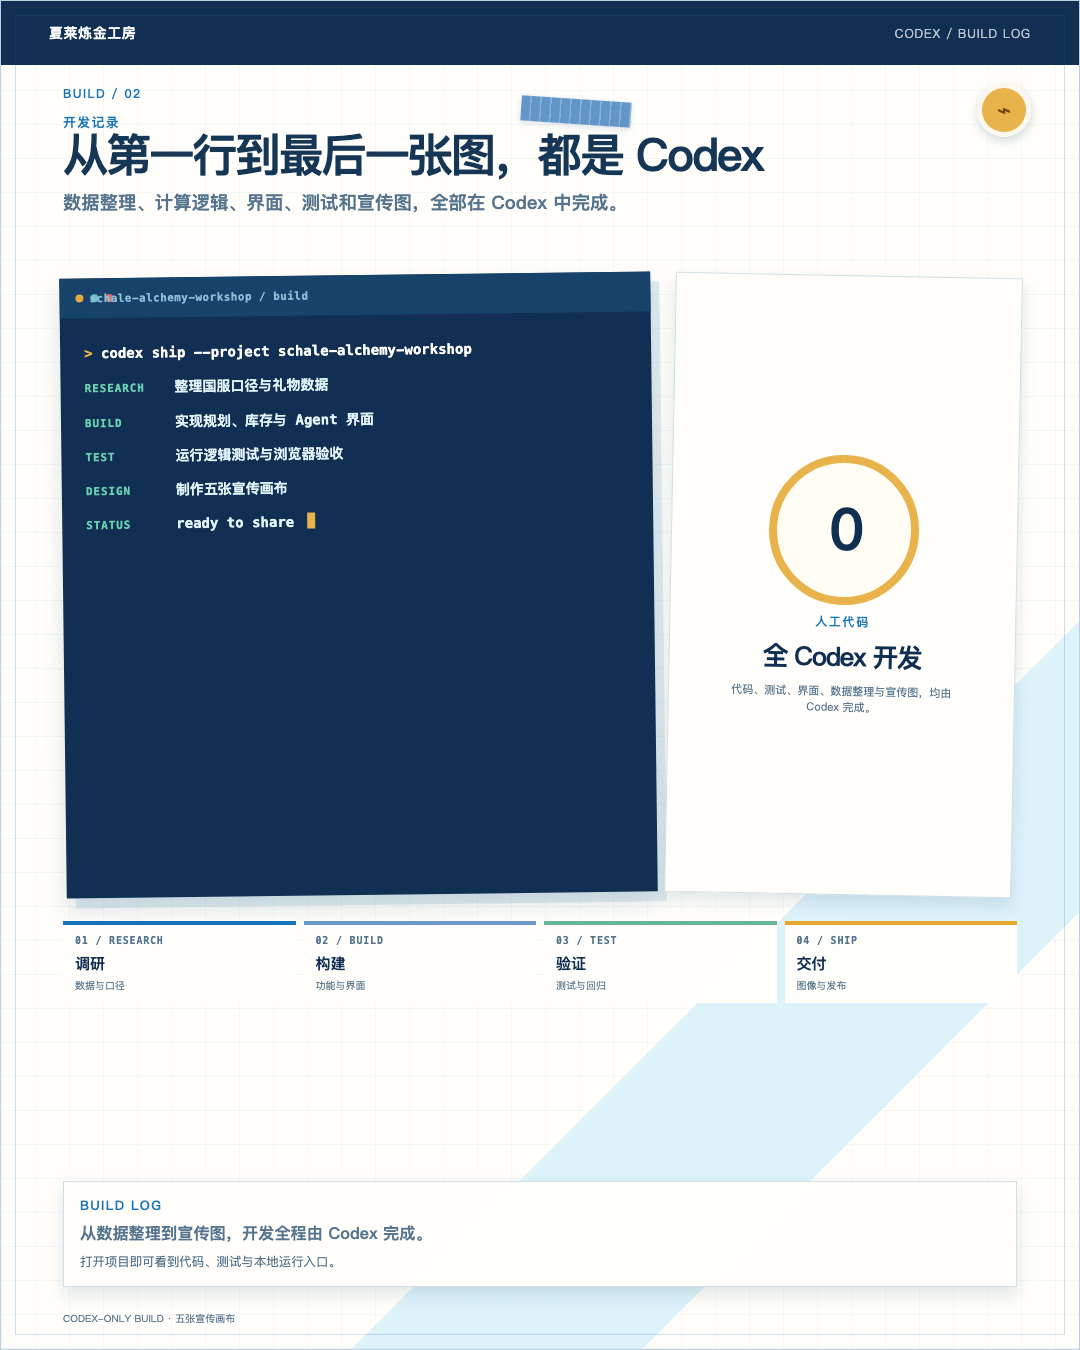
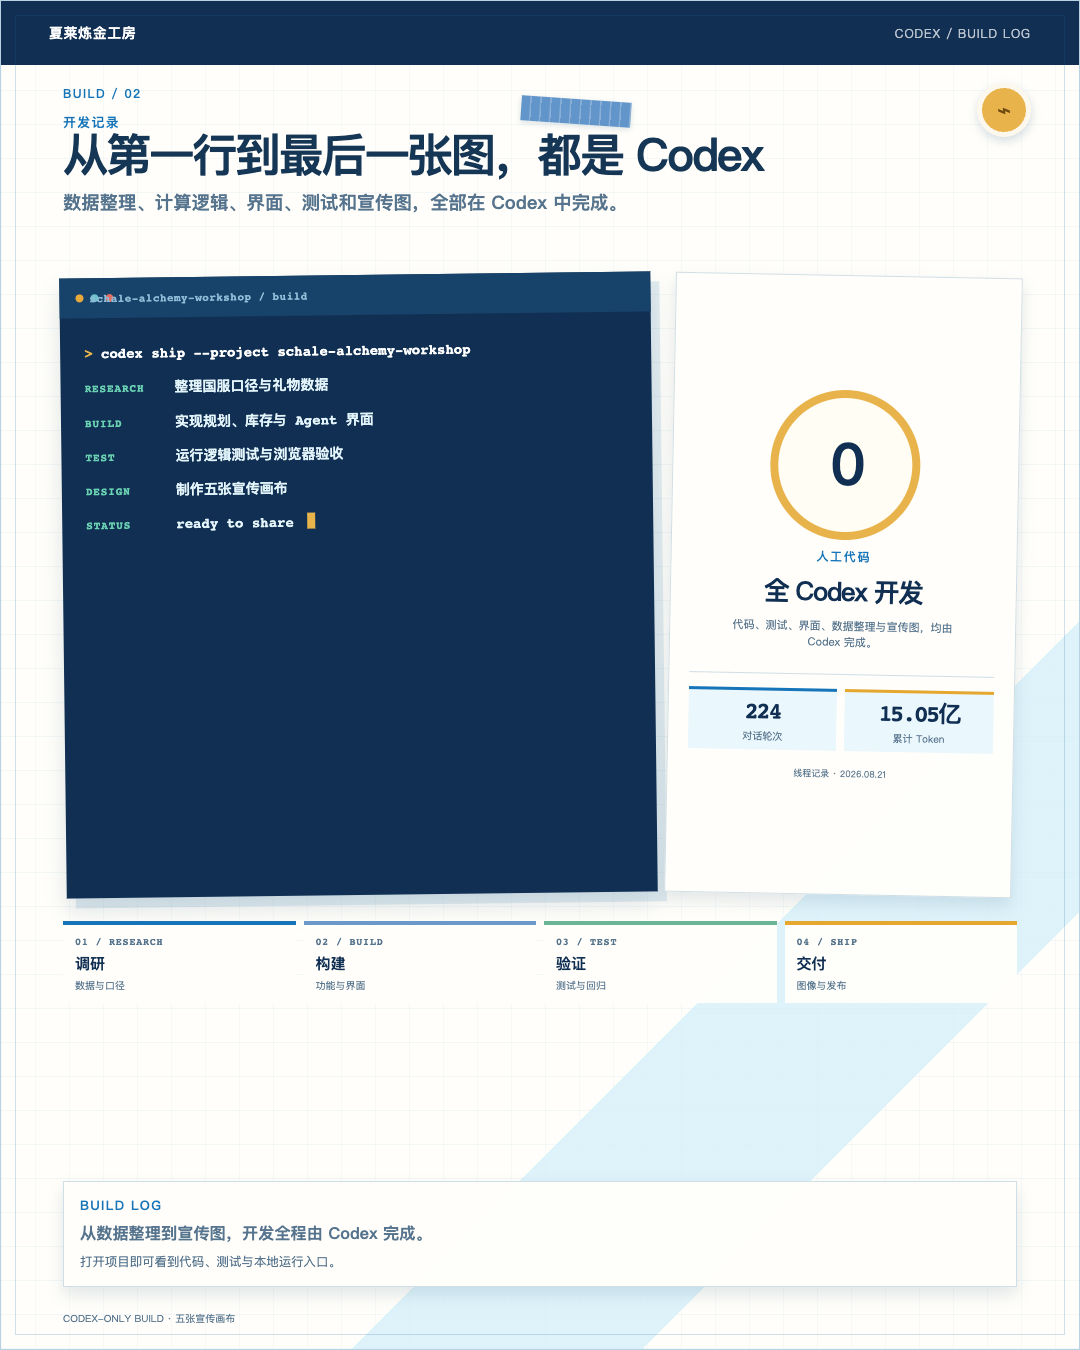
docs: add conversation usage stats

diff --git a/docs/promotion/scrapbook/preview.html b/docs/promotion/scrapbook/preview.html
@@ -175,6 +175,12 @@
     .codex-proof-label { color: var(--blue); font-size: 12px; font-weight: 900; letter-spacing: .14em; }
     .codex-proof strong { color: var(--navy); font-size: 26px; letter-spacing: -.06em; }
     .codex-proof small { max-width: 220px; color: var(--muted); font-size: 11px; line-height: 1.5; }
+    .codex-stats { width: 100%; margin-top: 15px; padding-top: 14px; display: grid; grid-template-columns: repeat(2, minmax(0, 1fr)); gap: 8px; border-top: 1px solid rgba(22, 94, 144, .2); }
+    .codex-stat { min-width: 0; padding: 10px 6px 8px; background: #eaf7fd; border-top: 3px solid var(--blue); }
+    .codex-stat:last-child { border-top-color: var(--gold); }
+    .codex-stat strong { display: block; color: var(--navy); font: 900 23px/1 var(--mono); letter-spacing: -.08em; white-space: nowrap; }
+    .codex-stat span { display: block; margin-top: 6px; color: var(--muted); font-size: 10px; line-height: 1.25; }
+    .codex-stats-note { margin-top: 9px; color: var(--muted); font-size: 9px; line-height: 1.3; }
     .codex-phases { position: absolute; z-index: 3; top: 920px; left: 62px; right: 62px; display: grid; grid-template-columns: repeat(4, 1fr); gap: 8px; }
     .codex-phase { min-height: 82px; padding: 11px 12px; border-top: 4px solid var(--blue); background: rgba(255,254,250,.96); }
     .codex-phase:nth-child(2) { border-top-color: #6b9aca; }
@@ -247,7 +253,7 @@
     <div class="sheet-frame"><section class="sheet feature codex" id="codex">
       <div class="topbar"><strong>夏莱炼金工房</strong><span>CODEX / BUILD LOG</span></div><div class="page-tag">BUILD / 02</div><span class="tape"></span><span class="sticker">⌁</span>
       <div class="feature-head"><p class="eyebrow">开发记录</p><h2>从第一行到最后一张图，都是 Codex</h2><p class="lead">数据整理、计算逻辑、界面、测试和宣传图，全部在 Codex 中完成。</p></div>
-      <div class="codex-board"><div class="codex-terminal"><div class="codex-terminal-bar"><i></i><span>schale-alchemy-workshop / build</span></div><div class="codex-terminal-body"><div class="codex-terminal-command">codex ship --project schale-alchemy-workshop</div><div class="codex-terminal-line"><b>RESEARCH</b><span>整理国服口径与礼物数据</span></div><div class="codex-terminal-line"><b>BUILD</b><span>实现规划、库存与 Agent 界面</span></div><div class="codex-terminal-line"><b>TEST</b><span>运行逻辑测试与浏览器验收</span></div><div class="codex-terminal-line"><b>DESIGN</b><span>制作五张宣传画布</span></div><div class="codex-terminal-line"><b>STATUS</b><span>ready to share <span class="codex-terminal-cursor" aria-hidden="true"></span></span></div></div></div><div class="codex-proof"><span class="codex-proof-mark">0</span><span class="codex-proof-label">人工代码</span><strong>全 Codex 开发</strong><small>代码、测试、界面、数据整理与宣传图，均由 Codex 完成。</small></div></div>
+      <div class="codex-board"><div class="codex-terminal"><div class="codex-terminal-bar"><i></i><span>schale-alchemy-workshop / build</span></div><div class="codex-terminal-body"><div class="codex-terminal-command">codex ship --project schale-alchemy-workshop</div><div class="codex-terminal-line"><b>RESEARCH</b><span>整理国服口径与礼物数据</span></div><div class="codex-terminal-line"><b>BUILD</b><span>实现规划、库存与 Agent 界面</span></div><div class="codex-terminal-line"><b>TEST</b><span>运行逻辑测试与浏览器验收</span></div><div class="codex-terminal-line"><b>DESIGN</b><span>制作五张宣传画布</span></div><div class="codex-terminal-line"><b>STATUS</b><span>ready to share <span class="codex-terminal-cursor" aria-hidden="true"></span></span></div></div></div><div class="codex-proof"><span class="codex-proof-mark">0</span><span class="codex-proof-label">人工代码</span><strong>全 Codex 开发</strong><small>代码、测试、界面、数据整理与宣传图，均由 Codex 完成。</small><div class="codex-stats"><div class="codex-stat"><strong>224</strong><span>对话轮次</span></div><div class="codex-stat"><strong>15.05亿</strong><span>累计 Token</span></div></div><p class="codex-stats-note">线程记录 · 2026.08.21</p></div></div>
       <div class="codex-phases"><div class="codex-phase"><b>01 / RESEARCH</b><strong>调研</strong><span>数据与口径</span></div><div class="codex-phase"><b>02 / BUILD</b><strong>构建</strong><span>功能与界面</span></div><div class="codex-phase"><b>03 / TEST</b><strong>验证</strong><span>测试与回归</span></div><div class="codex-phase"><b>04 / SHIP</b><strong>交付</strong><span>图像与发布</span></div></div>
       <div class="paper feature-note"><p class="eyebrow">BUILD LOG</p><p class="lead">从数据整理到宣传图，开发全程由 Codex 完成。</p><p class="fine">打开项目即可看到代码、测试与本地运行入口。</p></div><p class="footer">CODEX-ONLY BUILD · 五张宣传画布</p>
     </section></div>
